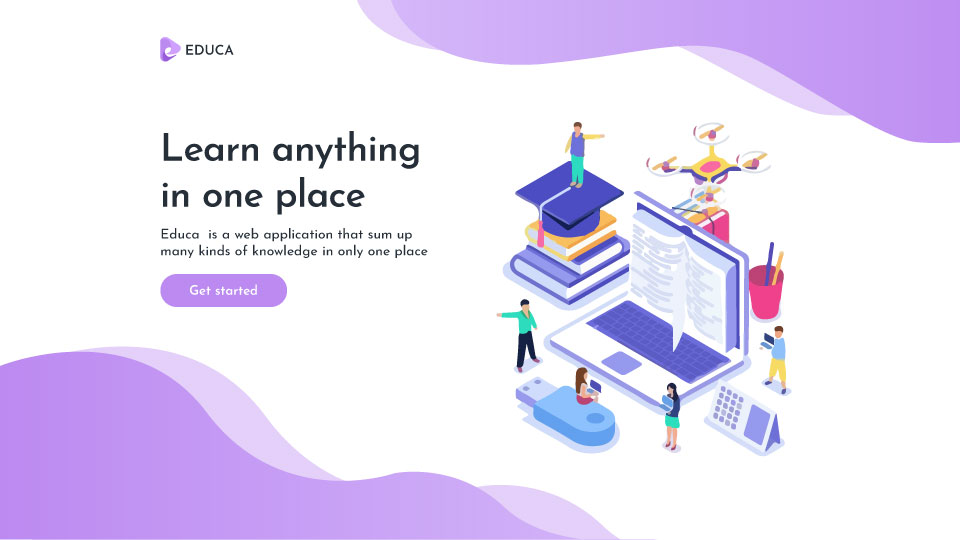
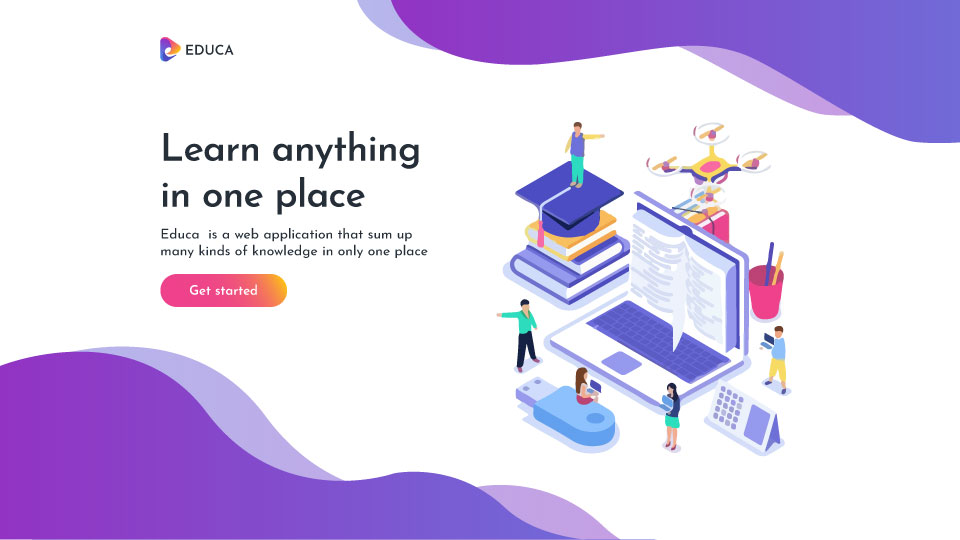
📦 Than >> Dev (#11)
* 🎉 Teach Page Mockup completed!

* 🔒 add 'required' prop to Input and Dropdown & 🔨 rework Button to acctual button

* ✨ chatbox now functional! but code is messy must be refactor

* ➕ ChatInput component & ⚙ little rework Input

* ⚛ remove redux for now

* ⚔ embed video now Work!! and has a join and disconnect message annnnd has temporary Join page

* 👓 refactor SCSS files #1

* 🛠 rework Dropdown Component

* 🔨 better ProfileBubble component

* ➕ React icons & 🛠 rework some components

* 🎈 new Home

* 🎨 re-design theme and edit some components

* 🎨 re-design them & edit some components

* first

* 📦 Than >> First (#10)

* HomePageV1

* ➕ Dropdown component

* HomePageV1 (#1)

* update home bg

* Than (#2)

* ➕ Dropdown component

* update home bg

* 🛠 fix conflict

* Dev >> Than (#3)

* Than (#2)

* ➕ Dropdown component

* update home bg

* 🛠 fix conflict

* ➕ Input component

* ✨ add thai font

* Card Update

* ➕ ProfileBubble component

* 🎉 Teach Page Mockup completed!

* 🔒 add 'required' prop to Input and Dropdown & 🔨 rework Button to acctual button

* ✨ chatbox now functional! but code is messy must be refactor

* ➕ ChatInput component & ⚙ little rework Input

* ⚛ remove redux for now

* ⚔ embed video now Work!! and has a join and disconnect message annnnd has temporary Join page

* 👓 refactor SCSS files #1

* 🛠 rework Dropdown Component

* 🔨 better ProfileBubble component

* ➕ React icons & 🛠 rework some components

* 🎈 new Home
[…]

diff --git a/src/components/Dropdown/Dropdown.js b/src/components/Dropdown/Dropdown.js
@@ -1,6 +1,6 @@
 import React, { useState } from 'react'
 import './Dropdown.scss'
-import { FaAngleDown } from "react-icons/fa"
+import { FaAngleDown } from 'react-icons/fa'
 import { Button } from '../../components'
 
 export const Dropdown = ({ id, menus }) => {
@@ -11,7 +11,7 @@ export const Dropdown = ({ id, menus }) => {
     const content = document.querySelector(`#dd-content-${id}`)
     const arrow = document.querySelector(`#dd-arrow-${id}`)
     const overlay = document.querySelector(`#dd-overlay-${id}`)
-    content.classList.toggle('hide')
+    content.classList.toggle('active')
     arrow.classList.toggle('active')
     overlay.classList.toggle('active')
   }
@@ -22,17 +22,17 @@ export const Dropdown = ({ id, menus }) => {
   }
 
   return (
-    <div className="dropdown" id={`dd-${id}`}>
+    <div className='dropdown' id={`dd-${id}`}>
       <Button text={state} onClick={toggle} />
-      <div className="dropdown-arrow" id={`dd-arrow-${id}`}>
+      <div className='dropdown-arrow' id={`dd-arrow-${id}`}>
         <FaAngleDown />
       </div>
-      <div className="dropdown-content hide" id={`dd-content-${id}`}>
+      <div className='dropdown-content' id={`dd-content-${id}`}>
         {menus.map(menu =>
-          <option className="item" id={menu} value={menu} onClick={e => select(e)}>{menu}</option>
+          <option className='item' id={menu} value={menu} onClick={e => select(e)}>{menu}</option>
         )}
       </div>
-      <div className="dropdown-overlay" id={`dd-overlay-${id}`} onClick={toggle}></div>
+      <div className='dropdown-overlay' id={`dd-overlay-${id}`} onClick={toggle}></div>
     </div>
   )
 }

diff --git a/src/components/Button/Button.scss b/src/components/Button/Button.scss
@@ -1,56 +1,39 @@
 @import '../../index.scss';
 
-.custom-button {
+.custom-btn {
   $width: 190px;
-  $height: 45px;
+  $height: 50px;
 
-  font-family: inherit;
-  box-sizing: border-box;
-  float: left;
-  width: $width;
-  padding: 0;
-  background: none;
+  @include fixed-size($width, $height);
+  background: $gradient;
+  color: white;
   border: none;
+  border-radius: 30px;
+  font-family: inherit;
+  font-size: 20px;
+  position: relative;
+  transition: .3s;
   cursor: pointer;
+
+  .btn-content {
+    @include flex-center;
+
+    label {
+      pointer-events: none;
+      user-select: none;
+    }
+  
+    .icon { margin-left: 10px }
+  }
+  
 
   &:focus { outline: none }
 
-  .btn-wrapper {
-    @include size($width, $height);
-    background: $gradient;
-    padding: 3px;
-    text-align: center;
-    border-radius: 30px;
-  
-    .btn {
-      @include size($width, $height);
-      @include flex-center;
-      background: $gradient;
-      border-radius: inherit;
-      transition: .3s;
-    
-      &:hover { @include hover }
-    
-      .label {
-        color: white;
-        font-size: 22px;
-        font-weight: bold;
-        user-select: none;
-      }
-    }
-  }
-  
-  .btn-alt-wrapper {
-    @extend .btn-wrapper;
-  
-    .btn-alt {
-      @extend .btn;
-      background: white;
-  
-      .label { color: $color }
-    }
-  }
+  &:hover { @include hover }
+
+  &.alt { background: $gradient-alt }
 }
+
 
 
 

diff --git a/src/components/Navbar/Navbar.js b/src/components/Navbar/Navbar.js
@@ -6,8 +6,12 @@ import logo from '../../img/logo.svg';
 
 export const Navbar = ({ user }) => {
   const [state, setState] = useState(false);
+  const [page, setPage] = useState('learn');
+  const pages = ['learn', 'teach', 'search'];
 
   const toggleBubble = () => setState(!state);
+
+  const changePage = (nextPage) => setPage(nextPage);
 
   return (
     <nav>
@@ -17,9 +21,17 @@ export const Navbar = ({ user }) => {
           <p>EDUCA</p>
         </div>
         <ul>
-          <li><Link to="/learn">Learn</Link></li>
-          <li><Link to="/teach">Teach</Link></li>
-          <li><Link to="/search">Search</Link></li>
+          {pages.map((pg) => (
+            <li>
+              <Link 
+                to={`/${pg}`}
+                onClick={() => changePage(`${pg}`)} 
+                className={(page===`${pg}`) && 'nav-link active'}
+              >
+                {pg}
+              </Link>
+            </li>
+          ))}
           <div className="profileicon" onClick={toggleBubble}></div>
         </ul>
         <ProfileBubble state={state} setState={setState} user={user}/>

diff --git a/src/components/Button/Button.js b/src/components/Button/Button.js
@@ -1,17 +1,18 @@
 import React from 'react';
 import './Button.scss';
 
-export const Button = ({ text, alt, onClick, type }) => {
+export const Button = ({ text, type, alt, onClick, children }) => {
+  const Icon = children || null;
+
   return (
-    <button className="custom-button" type={type || 'button'}>
-      <div 
-        className={(alt) ? 'btn-alt-wrapper' : 'btn-wrapper'}
-        onClick={onClick || null}
-        type={(type) ? type : 'button'}
-      >
-        <div className={(alt) ? 'btn-alt' : 'btn'}>
-          <div className="label">{text}</div>
-        </div>
+    <button 
+      className={(alt && 'custom-btn alt') || 'custom-btn'} 
+      type={type || 'button'}
+      onClick={onClick || null}
+    >
+      <div className='btn-content'>
+        <label>{text}</label>
+        {children && <Icon className='icon'/>}
       </div>
     </button>
   );

diff --git a/src/pages/SignUp/SignUp.js b/src/pages/SignUp/SignUp.js
@@ -1,0 +1,26 @@
+import React, { useState } from 'react';
+import './SignUp.scss';
+import { Input, Button } from '../../components';
+
+export const SignUp = () => {
+  return (
+    <div className="create-page-bg">
+        <div className="create-content">
+            <div className="create-form">
+                <header>Create Account</header>
+                <form onSubmit={() => alert('test') }>
+                    <Input text="E-mail" type="text" required/>
+                    <Input text="Name" type="text" required/>
+                    <Input text="Password" type="text" required/>
+                    <Button alt text="Create" type="submit" />
+                    <br />
+                </form>
+                <footer>Already have account?</footer>
+
+            </div>
+
+        </div>
+      
+    </div>
+  );
+}

diff --git a/src/pages/Login/Login.js b/src/pages/Login/Login.js
@@ -1,10 +1,24 @@
-import React from 'react';
+import React, { useState } from 'react';
 import './Login.scss';
+import { Input, Button } from '../../components';
 
 export const Login = () => {
   return (
-    <div>
-      Login
+    <div className="login-page-bg">
+        <div className="login-content">
+            <div className="login-form">
+                <header>User Login</header>
+                <form onSubmit={() => alert('test')}>
+                    <Input text="E-mail" type="text" required/>
+                    <Input text="Password" type="text" required/>
+                    <Button alt text="Login" type="submit" />
+                    <br />
+                </form>
+                <label>Create Account</label>
+
+            </div>
+
+        </div>
     </div>
   );
 }

diff --git a/src/components/ProfileBubble/ProfileBubble.js b/src/components/ProfileBubble/ProfileBubble.js
@@ -14,7 +14,7 @@ export const ProfileBubble = ({ state, setState, user: {name, level}}) => {
   }
 
   return (
-    <div className={(state) ? 'bubble-container' : 'bubble-container hide'}>
+    <div className={(state && 'bubble-container') || 'bubble-container hide'}>
       <div class="content">
         <div className="username">{name}</div>
         <div className="level">LEVEL {level}</div>
@@ -33,7 +33,7 @@ export const ProfileBubble = ({ state, setState, user: {name, level}}) => {
         </Link>
       </div>
       <div 
-        className={(state) ? 'profile-overlay active' : 'profile-overlay'}
+        className={(state && 'profile-overlay active') || 'profile-overlay'}
         onClick={hideBubble}
       ></div>
     </div>

diff --git a/src/App.js b/src/App.js
@@ -1,7 +1,7 @@
 import React from 'react';
 import { BrowserRouter, Switch, Route } from "react-router-dom";
 import { Navbar, Card } from './components';
-import { Home, Learn, Teach, Search, Room, Join, Profile, Login  } from './pages';
+import { Home, Learn, Teach, Search, Room, Join, Profile, Login, SignUp  } from './pages';
 import './App.scss';
 
 const user = {
@@ -39,6 +39,8 @@ export const App = () => {
           <Route path="/profile" component={Profile}/>
 
           <Route path="/login" component={Login}/>
+
+          <Route path="/signup" component={SignUp}/>
           
         </Switch>
       </BrowserRouter>

diff --git a/src/components/ProfileBubble/ProfileBubble.scss b/src/components/ProfileBubble/ProfileBubble.scss
@@ -28,7 +28,7 @@
 
     .exp {
       @include size(140px, 5px);
-      background: $color;
+      background: $gradient;
       margin-bottom: 10px;
     }
 
@@ -43,6 +43,30 @@
 
         &.xl { font-size: 120% }
       }
+
+      &:hover { color: $color }
+    }
+  }
+
+  &.hide {
+    @extend .bubble-container;
+    opacity: 0;
+    height: 0;
+    transform: scale(0);
+  }
+
+  .profile-overlay {
+    pointer-events: none;
+    z-index: 9;
+    position: fixed;
+    background: none;
+    top: 0;
+    left: 0;
+    width: 100vw;
+    height: 100%;
+
+    &.active {
+      pointer-events: all;
     }
   }
 

diff --git a/src/components/ToggleButton/ToggleButton.scss b/src/components/ToggleButton/ToggleButton.scss
@@ -7,8 +7,8 @@
 
   @include size($width, $height);
   @include flex-center;
-  justify-content: flex-start;
   @include border(1px);
+  justify-content: flex-start;
   box-sizing: border-box;
   background: white;
   border-radius: $height;
@@ -41,7 +41,9 @@
     transition: .3s;
   }
 
-  &:hover {  @include hover }
+  &:hover { 
+    box-shadow: inset 0px 0px 0px 1px $color, 0 0 15px #0000004d;
+  }
 
   &.active {
     @extend .toggle-btn;
@@ -51,7 +53,6 @@
     .circle {
       background: white;
       margin-left: $width - $height + 5px;
-
       .icon-check { color: $color }
     }
   

diff --git a/src/_styles.scss b/src/_styles.scss
@@ -1,7 +1,9 @@
 
-$gradient: linear-gradient(to left, #bc8af1, #d4b6f9);
+$gradient: linear-gradient(60deg, #9233c3, #6d70da 70%);
+$gradient-alt: linear-gradient(60deg, #ee428b 60%, #ffda00 95%);
 
-$color: #bc8af1;
+$color: #4c4dc2;
+$color-alt: #ee428b;
 
 $nav-size: 100px;
 $full-page: calc(100vh - #{$nav-size});
@@ -10,7 +12,7 @@ $full-page: calc(100vh - #{$nav-size});
   box-shadow: inset 0px 0px 0px $stroke $color;
 }
 
-@mixin hover { box-shadow: 0 0 10px $color }
+@mixin hover { box-shadow: 0 0 15px rgba(0, 0, 0, 0.3) }
 
 @mixin size($width, $height: $width) {
   width: $width;

diff --git a/src/components/Navbar/Navbar.scss b/src/components/Navbar/Navbar.scss
@@ -32,7 +32,18 @@ nav {
       justify-content: space-between;
       list-style: none;
   
-      li { font-size: 24px }
+      li { 
+        font-size: 24px;
+        text-transform: capitalize;
+
+        &:nth-child(1) a:hover { color: #62a0ee }
+        &:nth-child(2) a:hover { color: $color-alt }
+        &:nth-child(3) a:hover { color: #ffcf10 }
+
+        &:nth-child(1) a.active { color: #62a0ee }
+        &:nth-child(2) a.active { color: $color-alt }
+        &:nth-child(3) a.active { color: #ffcf10 }
+      }
   
       .profileicon {
         @include size(45px);
